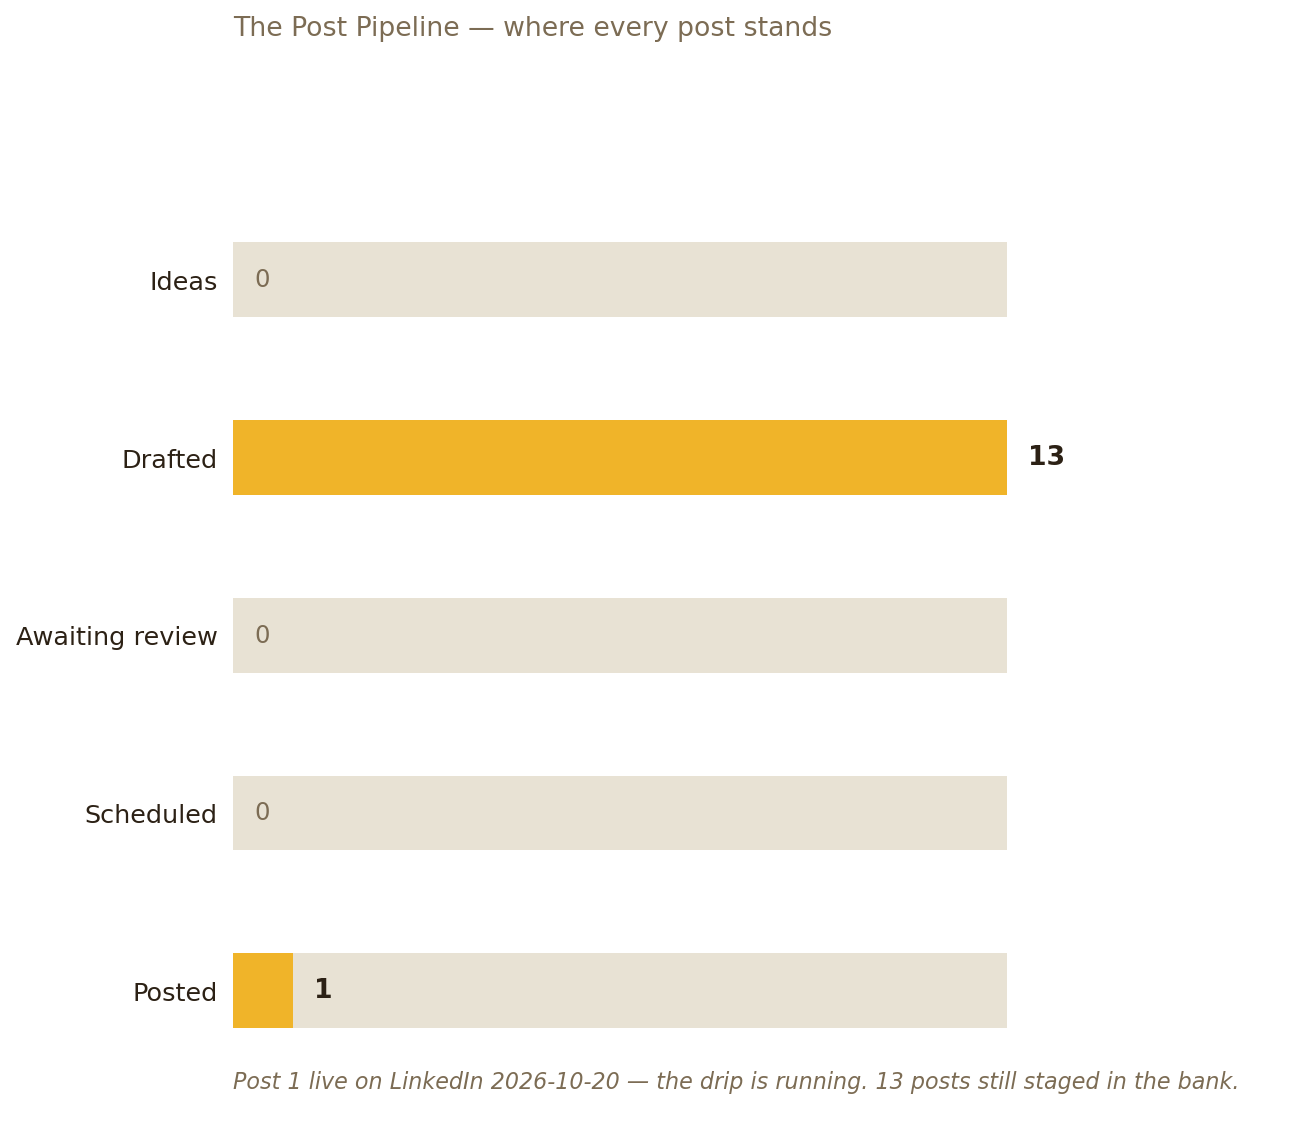
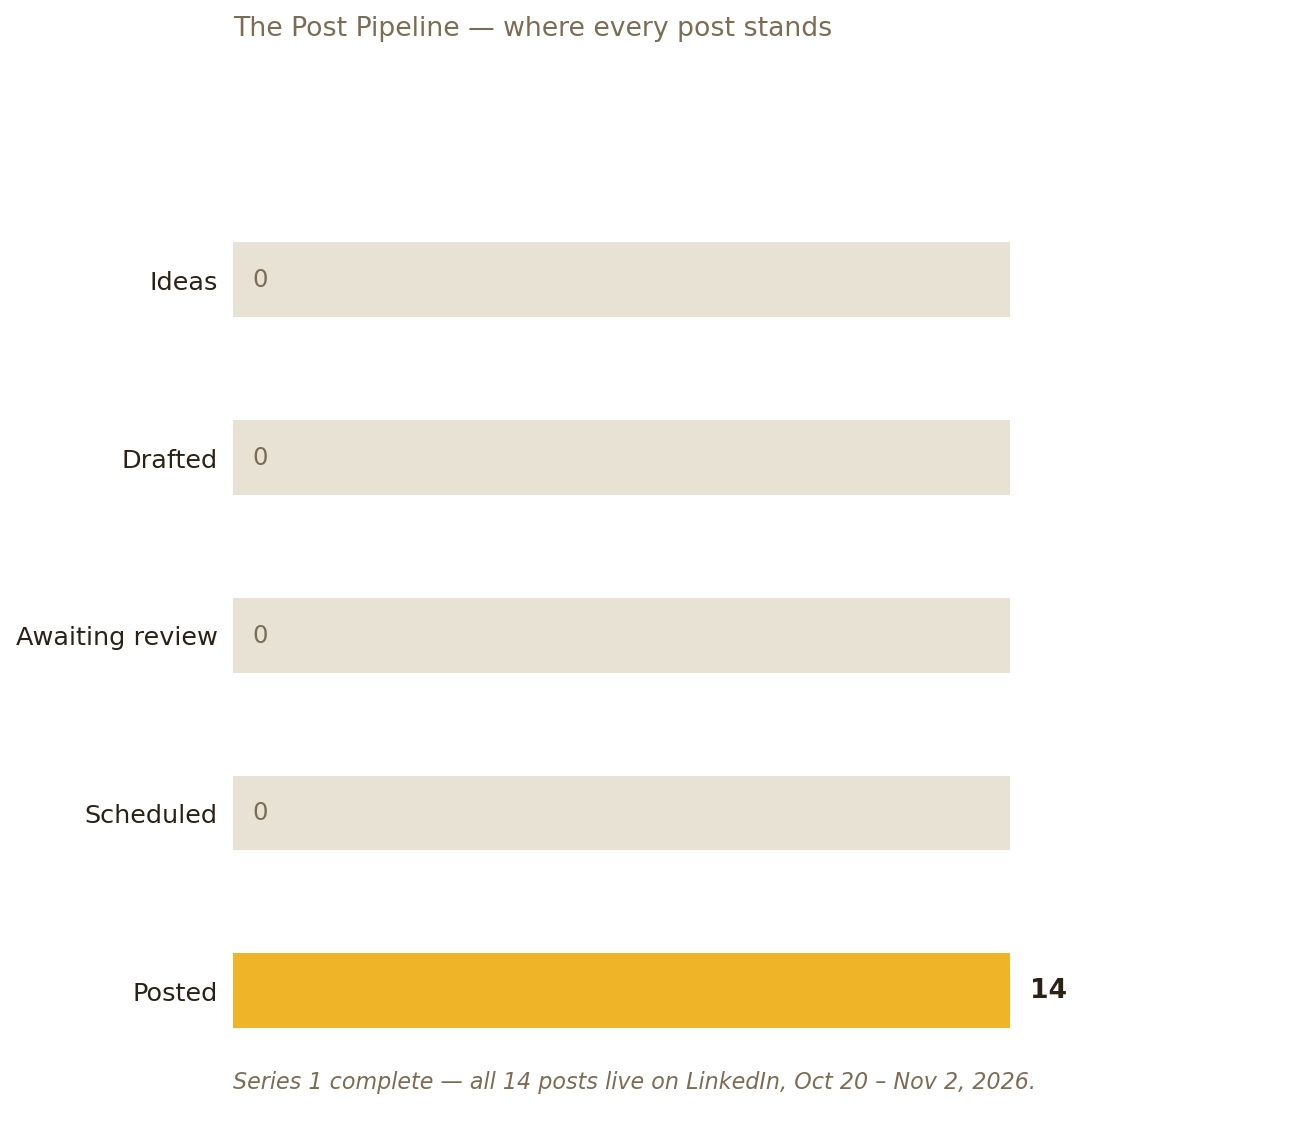
Social Media Buddy: pipeline + queue caught up — Series 1 complete, Posted 14

Changed region(s): [[0.1848, 0.8355, 0.9546, 0.9593], [0.154, 0.3714, 0.8006, 0.4642]]

diff --git a/social-media-buddy/index.html b/social-media-buddy/index.html
@@ -171,7 +171,7 @@ body {
 
 <div class="card">
 <h2>🔗 LinkedIn Makeover — the report</h2>
-<p><strong>Post 1 is live.</strong> <a href="https://www.linkedin.com/feed/update/urn:li:share:7518441470295457793/" style="color:var(--accent);">The 40-year arc</a> posted Tue 2026-10-20. First check: <strong>37 impressions</strong>, 0 reactions, 0 comments — early hours. An engagement watch checks every 3 hours through Nov 2; any comment gets a drafted reply in Dave's voice for his approval. Nothing ever replies itself.</p>
+<p><strong>Post 1 is live.</strong> <a href="https://www.linkedin.com/feed/update/urn:li:share:7518441470295457793/" style="color:var(--accent);">The 40-year arc</a> posted Tue 2026-10-20. Final count: <strong>979 impressions</strong>, 11 reactions, 2 comments. The engagement watch ran every 3 hours through Nov 2 and has wrapped; comments got drafted replies in Dave's voice for his approval. Nothing ever replies itself.</p>
 <p><strong>The audit (2026-10-20).</strong> The audience is real: <strong>5,309 followers</strong>, 500+ connections, 15 recommendations received. Present: photo, banner, 48 skills. Missing: a Featured section (absent entirely), Rae Technology 1992–96 (the company behind Post 1's story isn't on the profile at all), and any trace of the Buddy System. Headline today: just “UX &amp; Product Designer.” The posts tell a story the profile doesn't — yet.</p>
 <p><strong>The plan.</strong> New headline (three options in the brief), a first-person About that opens “I've been building the same product for 40 years,” a new banner art-directed by 🖼 <a href="https://davedellaquila.github.io/buddy-system/art-director-buddy/" style="color:var(--accent);">Art Director</a>, Featured section added, Rae Technology + Buddy System experience entries, creator mode on, skills pruned. One open decision is Dave's: Open to Work is currently public — keep, narrow, or drop. Target: the new profile live by <strong>Tue 2026-10-27</strong>, so the Money Buddy posts land on it.</p>
 <div class="linkgrid">
@@ -247,40 +247,40 @@ body {
 </div>
 <div class="card">
 <h2>📮 Post queue</h2>
-<p class="muted">The LinkedIn Teaser Bank, live as a pipeline. The drip is running — Post 1 posted Tue 2026-10-20, one a day through Mon 2026-11-02, LinkedIn first.</p>
+<p class="muted">The LinkedIn Teaser Bank, live as a pipeline. <strong>Series 1 is complete</strong> — all 14 posted, Tue 2026-10-20 through Mon 2026-11-02, LinkedIn first.</p>
 <div class="pipe">
 <div class="stage"><div class="n">0</div><div class="lbl">Ideas</div></div><div class="pipe-arrow">→</div>
-<div class="stage hot"><div class="n">13</div><div class="lbl">Drafted</div></div><div class="pipe-arrow">→</div>
+<div class="stage"><div class="n">0</div><div class="lbl">Drafted</div></div><div class="pipe-arrow">→</div>
 <div class="stage"><div class="n">0</div><div class="lbl">Awaiting<br>review</div></div><div class="pipe-arrow">→</div>
 <div class="stage"><div class="n">0</div><div class="lbl">Scheduled</div></div><div class="pipe-arrow">→</div>
-<div class="stage"><div class="n">1</div><div class="lbl">Posted</div></div>
+<div class="stage hot"><div class="n">14</div><div class="lbl">Posted</div></div>
 </div>
 <ul class="qlist">
 <li><span class="date">Tue 10-20</span><span class="t">The 40-year arc</span><span class="chip lead">Lead</span><span class="chip">Posted ✓</span></li>
-<li><span class="date">Wed 10-21</span><span class="t">The Knowledge Navigator</span><span class="chip">Approved</span></li>
-<li><span class="date">Thu 10-22</span><span class="t">Rae Assist, 1993</span><span class="chip">Approved</span></li>
-<li><span class="date">Fri 10-23</span><span class="t">The fall</span><span class="chip">Approved</span></li>
-<li><span class="date">Sat 10-24</span><span class="t">Penny's return</span><span class="chip hold">Hold · consent</span></li>
-<li><span class="date">Sun 10-25</span><span class="t">Why now</span><span class="chip">Approved</span></li>
-<li><span class="date">Mon 10-26</span><span class="t">What it is</span><span class="chip">Approved</span></li>
-<li><span class="date">Tue 10-27</span><span class="t">The trojan horse</span><span class="chip">Approved</span></li>
-<li><span class="date">Wed 10-28</span><span class="t">Forgotten subscriptions</span><span class="chip">Approved</span></li>
-<li><span class="date">Thu 10-29</span><span class="t">Double-charged</span><span class="chip">Approved</span></li>
-<li><span class="date">Fri 10-30</span><span class="t">The eyeglasses story</span><span class="chip">Approved</span></li>
-<li><span class="date">Sat 10-31</span><span class="t">One picture</span><span class="chip">Approved</span></li>
-<li><span class="date">Sun 11-01</span><span class="t">The staff grows</span><span class="chip">Approved</span></li>
-<li><span class="date">Mon 11-02</span><span class="t">The tip jar</span><span class="chip hold">Hold · Ko-fi</span></li>
+<li><span class="date">Wed 10-21</span><span class="t">The Knowledge Navigator</span><span class="chip">Posted ✓</span></li>
+<li><span class="date">Thu 10-22</span><span class="t">Rae Assist, 1993</span><span class="chip">Posted ✓</span></li>
+<li><span class="date">Fri 10-23</span><span class="t">The fall</span><span class="chip">Posted ✓</span></li>
+<li><span class="date">Sat 10-24</span><span class="t">Penny's return</span><span class="chip">Posted ✓</span></li>
+<li><span class="date">Sun 10-25</span><span class="t">Why now</span><span class="chip">Posted ✓</span></li>
+<li><span class="date">Mon 10-26</span><span class="t">What it is</span><span class="chip">Posted ✓</span></li>
+<li><span class="date">Tue 10-27</span><span class="t">The trojan horse</span><span class="chip">Posted ✓</span></li>
+<li><span class="date">Wed 10-28</span><span class="t">Forgotten subscriptions</span><span class="chip">Posted ✓</span></li>
+<li><span class="date">Thu 10-29</span><span class="t">Double-charged</span><span class="chip">Posted ✓</span></li>
+<li><span class="date">Fri 10-30</span><span class="t">The eyeglasses story</span><span class="chip">Posted ✓</span></li>
+<li><span class="date">Sat 10-31</span><span class="t">One picture</span><span class="chip">Posted ✓</span></li>
+<li><span class="date">Sun 11-01</span><span class="t">The staff grows</span><span class="chip">Posted ✓</span></li>
+<li><span class="date">Mon 11-02</span><span class="t">The tip jar</span><span class="chip">Posted ✓</span></li>
 </ul>
-<p class="muted" style="margin-top:10px;font-size:13px;"><strong style="color:var(--accent);">All 14 approved by Dave 2026-10-16 — and the drip is live.</strong> Dave posts each day's staged copy himself (copy staged + visual emailed each morning). Post 5 stays held for Penny's consent; Post 14 for the Ko-fi link.<br>Full post texts live in the <a href="https://docs.google.com/document/d/1-tPJ-a_aHb6OnP3KtQyXgjB0GASdkuIol_YUrGTaYL8/edit" style="color:var(--accent);" target="_blank" rel="noopener">LinkedIn Teaser Bank</a> (Buddy Docs).</p>
+<p class="muted" style="margin-top:10px;font-size:13px;"><strong style="color:var(--accent);">All 14 approved by Dave 2026-10-16 — and all 14 are posted.</strong> Series 1 ran Oct 20 – Nov 2. A few landed a day or two late — Day 9 waited on the tip-jar call, Days 11–12 on real Money Buddy data — but the full bank is live.<br>Full post texts live in the <a href="https://docs.google.com/document/d/1-tPJ-a_aHb6OnP3KtQyXgjB0GASdkuIol_YUrGTaYL8/edit" style="color:var(--accent);" target="_blank" rel="noopener">LinkedIn Teaser Bank</a> (Buddy Docs).</p>
 </div>
 
 <div class="card">
 <h2>📊 The Post Pipeline</h2>
 <picture>
 <source srcset="pipeline-dark.png" media="(prefers-color-scheme: dark)">
-<img class="chartimg" src="pipeline-light.png" alt="The Post Pipeline — funnel of live post counts per stage: Ideas 0, Drafted 13, Awaiting review 0, Scheduled 0, Posted 1">
+<img class="chartimg" src="pipeline-light.png" alt="The Post Pipeline — funnel of live post counts per stage: Ideas 0, Drafted 0, Awaiting review 0, Scheduled 0, Posted 14">
 </picture>
-<p class="muted" style="margin-top:10px;font-size:13px;">Built by 📊 Charts Buddy in the Kin chart language from real queue counts. Regenerates as posts move through the pipeline.</p>
+<p class="muted" style="margin-top:10px;font-size:13px;">Built by 📊 Charts Buddy in the Kin chart language from real queue counts. Regenerated 2026-11-05 — Series 1 complete, all 14 posted.</p>
 </div>
 
 <div class="card">

diff --git a/CHANGELOG.md b/CHANGELOG.md
@@ -1,5 +1,6 @@
 ## 2026-11-05
 - **New Atlas lens: Compact (build 20261105.2228)** — Dave: the Atlas tree spreads too wide to see the whole thing. The lens pill gains "Compact," an icicle layout of the same hierarchy: generations as horizontal bands, every buddy a segment whose width is proportional to its subtree's leaf count (with a minimum slot so small subtrees stay visible), the whole tree drawn as a single SVG that a fit pass scales to the pane in BOTH dimensions — all 128 in-tree buddies on screen at once, no horizontal spread, at desktop and phone widths alike. On narrow panes (phone portrait) the layout transposes to columns so the leaf axis runs down the screen and still fits whole. Labels degrade gracefully by segment size — full name, first word, icon only, then the bare segment (its tooltip carries the name) — and tapping a segment selects that buddy, same as a tree tile; the pane zoom enlarges from the fitted base. The fit works with the pane's machinery rather than against it: the SVG carries definite fitted dimensions (a percentage-width SVG has no intrinsic size and collapsed to zero in the zoom sizer), a ResizeObserver-driven pass re-fits when the pane gains or changes size (the first render can happen while the Atlas is hidden), the zoom sizer is set directly (the zoom content fills the sizer, so applyZoom's scrollWidth measurement could never shrink a stale larger sizer), and the pane is scrolled so the fitted chart sits centered in the window despite the standing 50vw/50vh viewport padding. Subtrees collapsed in the Tree lens count as single leaves here; the search filter is respected like the other lenses. The Tree lens remains the default.
+- **📣 Social Media Buddy — Post Pipeline caught up to reality (Nov 5):** the homepage pipeline strip, queue chips, and Charts Buddy pipeline chart were frozen at their 2026-10-20 state (Posted 1, Drafted 13) because nothing regenerated them as the drip posted. Updated from the drip staging records: strip now reads Posted 14 / Drafted 0, all 14 queue rows carry Posted ✓, the pipeline chart was regenerated from social_pipeline.py with the final counts (Posted 14) in both themes, and the LinkedIn Makeover card now carries Post 1's final numbers (979 impressions, 11 reactions, 2 comments).
 - **👩🍳 Nan's Buddy — carpet-cleaner task added; homepage re-synced to the JD (Nov 5):** Home Operations gains "Use the carpet cleaner to address stains and dirty spots and cat barf as soon as it's noticed" (Dave, via the main chat). In the same pass, four edits found already in the Google Doc (made there directly since the last publish) were adopted as canonical and mirrored: Head Chef's recipe task now reads "Send Dave recipes ahead of time, when possible," the dinner rotation points to the master recipe list, big occasions name Thanksgiving/Christmas/Easter, and Kitchen Operations gains "Aim for no dishes in the sink at the start of a new day." JD total: 85 tasks; doc read-back verified and the homepage matches it.
 - **👩🍳 Nan's Buddy — two older R&R dictations folded in (Dave's approval, Nov 5):** the Oct 30 dusting/floors detail merged into Home Operations in Dave's wording — the floors task now ends "keep the floors looking good (no visible scuff marks)" and the dusting task now reads "Dust the house (shelves, sills, and the stairs — dust and cat hair) when it becomes noticeable, no less than 1x per week" — and Nov 1's weekend-breakfast wish added to Head Chef as "Offers to make breakfast on weekends." Doc first ([Wife — Job Description](https://docs.google.com/document/d/1TCCH3YWxVUCxw1qQ8qB39VqeQImH3DIxfEdC5AUBjbM/edit), read-back verified, 83 tasks total), homepage "The Work Itself" mirrored; both ingest items marked folded.
 - **Social Media Buddy — "Worth your attention" evening edition, Thu 2026-11-05** — Evening refresh of the attn card on Social Media Buddy's homepage. Fresh reads: Facebook (newsfeed 2 pages + friends feed 2 pages, 18 rows — friends' birthday wishes to Dave from Tom Barnum and Jay Rosas lead on the friends-first rule, then the Amador County Sheriff's elder-abuse/theft arrest of a Jackson hearing-aid business owner posted today at 12:57 PM; no posts from Nan, Quentin, Sawyer, Amanda, Ron or Emile; two promo posts skipped), Instagram following feed (a thin pull — 8 posts over 2 pages, each pick verified individually; Chris Pratt's AI-made "THE JRS" Prime Universe post leads at 22,492 likes, with carstuesday's 1949 Ford history post the car highlight), Threads following feed (2 pages, 10 posts — Bring a Trailer's 1971 Mercedes-Benz 280SE 3.5 Cabriolet and ex-Paul Reinhart 1956 Corvette race car lead), Reddit fresh via the browser (all eight subs loaded, none blocked — r/Porsche has a new #1 at 8.3K; r/ClaudeAI's watermark post still #1 at 6.5K in a fresh post; r/littlebritishcars' MGB GT up to 466), X fresh public profile reads (logged out — @claudeai's Personal Finance in Claude launch leads at 25,654 likes; @ClaudeDevs' background-subagents post climbs to 22,262; two fresh @markgurman posts from today; X search still redirected to a login page and was not used), LinkedIn fresh signed-in read-only pass (43 feed units screened, 11 promoted/sponsored skipped — Nick Babich's 5 GitHub repos for Claude Code leads a UX-meets-AI Top 5, every link in the standard feed/update/<URN> form from the post's own Embed dialog; nothing from family, vintage cars, Porsche/BMW, cycling or Amador County). LinkedIn Post 1 figures are final from the teaser-drip watch's 9:39 AM check Mon Nov 2: 979 impressions, 11 reactions, 2 comments; the drip watch has wrapped. Focused-inbox flags are reported in chat only, never on the public page. All 29 attention links carry target="_blank" rel="noopener".
